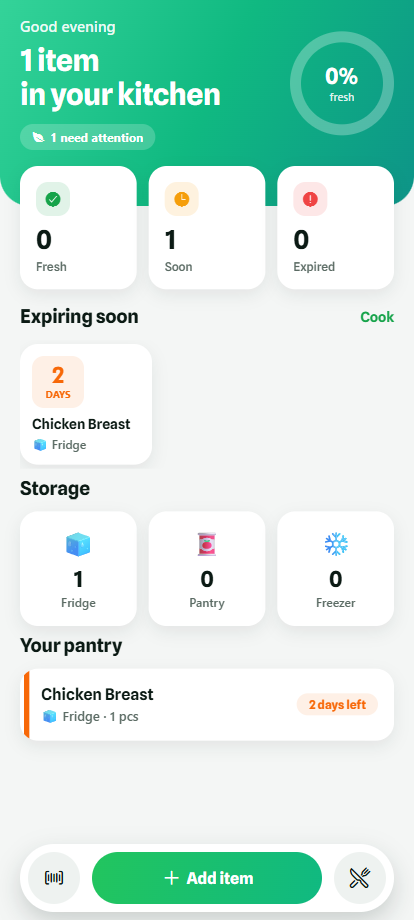
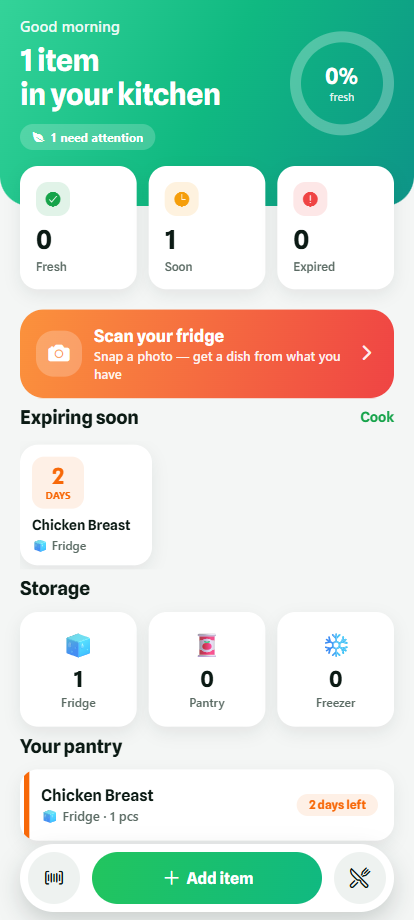
Add "Scan your fridge → recipe" camera feature
- New /fridge screen: live in-app camera with a shutter button; captures a
  photo, sends it to Gemini vision to detect ingredients, then generates a
  recipe from them — with an option to add the detected items to the pantry
- engine/fridgeScan.ts orchestrates detect → recipe (no auto-save)
- Reusable RecipeCard component (shared styling)
- Prominent "Scan your fridge" gradient card on the dashboard
- Update README features + screenshots (dashboard, scan-fridge)

Verified live on web: dashboard card + /fridge screen render, 0 console errors.
tsc clean, web bundle, tests 18/18.

diff --git a/src/app/fridge.tsx b/src/app/fridge.tsx
@@ -1,0 +1,194 @@
+import { useRef, useState } from 'react';
+import { ActivityIndicator, Alert, ScrollView, StyleSheet, Text, View } from 'react-native';
+import { CameraView, useCameraPermissions } from 'expo-camera';
+import { useRouter } from 'expo-router';
+import { Ionicons } from '@expo/vector-icons';
+import Animated, { FadeInDown } from 'react-native-reanimated';
+
+import { GradientButton } from '@/components/ui/gradient-button';
+import { PressScale } from '@/components/ui/press-scale';
+import { RecipeCard } from '@/components/ui/recipe-card';
+import { useColors, font, gradients, radius, shadow, space } from '@/theme/tokens';
+import { scanFridge, saveDetected, type FridgeScanResult } from '@/engine/fridgeScan';
+
+export default function FridgeScreen() {
+  const c = useColors();
+  const router = useRouter();
+  const [permission, requestPermission] = useCameraPermissions();
+  const cameraRef = useRef<CameraView>(null);
+  const [busy, setBusy] = useState(false);
+  const [saved, setSaved] = useState(false);
+  const [result, setResult] = useState<FridgeScanResult | null>(null);
+
+  if (!permission) return <View style={[styles.center, { backgroundColor: c.bg }]} />;
+
+  if (!permission.granted) {
+    return (
+      <View style={[styles.center, { backgroundColor: c.bg }]}>
+        <Ionicons name="camera" size={48} color={c.primary} />
+        <Text style={[styles.permTitle, { color: c.text }]}>Camera access</Text>
+        <Text style={[styles.permText, { color: c.textMuted }]}>
+          FridgeForage uses your camera to see what's in your fridge and suggest a dish.
+        </Text>
+        <GradientButton label="Grant access" colors={gradients.primary} onPress={requestPermission} />
+      </View>
+    );
+  }
+
+  const capture = async () => {
+    if (!cameraRef.current || busy) return;
+    setBusy(true);
+    try {
+      const photo = await cameraRef.current.takePictureAsync({ base64: true, quality: 0.4 });
+      if (!photo?.base64) throw new Error('Could not capture the photo.');
+      const r = await scanFridge(photo.base64);
+      setResult(r);
+      setSaved(false);
+    } catch (e) {
+      Alert.alert('Scan failed', String(e));
+    } finally {
+      setBusy(false);
+    }
+  };
+
+  const addToPantry = async () => {
+    if (!result) return;
+    await saveDetected(result.items);
+    setSaved(true);
+  };
+
+  // ---- Result view ----
+  if (result) {
+    return (
+      <ScrollView style={{ backgroundColor: c.bg }} contentContainerStyle={styles.resultContent} showsVerticalScrollIndicator={false}>
+        {result.status !== 'ok' ? (
+          <Animated.View entering={FadeInDown.springify().damping(15)} style={[styles.notice, { backgroundColor: c.surface }, shadow.card]}>
+            <Ionicons name={result.status === 'no_items' ? 'search' : 'cloud-offline'} size={32} color={c.textMuted} />
+            <Text style={[styles.noticeTitle, { color: c.text }]}>
+              {result.status === 'no_items' ? 'No ingredients spotted' : 'Couldn’t reach the AI'}
+            </Text>
+            <Text style={[styles.noticeText, { color: c.textMuted }]}>
+              {result.status === 'no_items'
+                ? 'Try a clearer, well-lit photo of your open fridge.'
+                : 'The recipe service needs the AI proxy configured. Check your connection and try again.'}
+            </Text>
+          </Animated.View>
+        ) : (
+          <>
+            <Text style={[styles.label, { color: c.textMuted }]}>Spotted in your fridge</Text>
+            <View style={styles.chips}>
+              {result.items.map((it, i) => (
+                <Animated.View
+                  key={it.id}
+                  entering={FadeInDown.delay(i * 40).springify().damping(16)}
+                  style={[styles.chip, { backgroundColor: c.surface }, shadow.card]}>
+                  <Text style={[styles.chipText, { color: c.text }]}>{it.normalized_name}</Text>
+                </Animated.View>
+              ))}
+            </View>
+
+            <PressScale onPress={saved ? undefined : addToPantry} disabled={saved}>
+              <View style={[styles.addRow, { backgroundColor: c.surface, borderColor: c.border }, shadow.card]}>
+                <Ionicons name={saved ? 'checkmark-circle' : 'add-circle-outline'} size={20} color={saved ? c.fresh : c.primary} />
+                <Text style={[styles.addText, { color: saved ? c.fresh : c.text }]}>
+                  {saved ? `Added ${result.items.length} to pantry` : `Add ${result.items.length} to my pantry`}
+                </Text>
+              </View>
+            </PressScale>
+
+            {result.recipe ? (
+              <RecipeCard recipe={result.recipe} />
+            ) : (
+              <View style={[styles.notice, { backgroundColor: c.surface }, shadow.card]}>
+                <Text style={[styles.noticeText, { color: c.textMuted }]}>
+                  Detected the ingredients, but couldn’t fetch a recipe (the AI proxy may be offline).
+                </Text>
+              </View>
+            )}
+          </>
+        )}
+
+        <View style={styles.resultActions}>
+          <GradientButton
+            label="Scan again"
+            colors={gradients.cook}
+            onPress={() => setResult(null)}
+            icon={<Ionicons name="camera-reverse" size={20} color="#fff" />}
+          />
+          <PressScale onPress={() => router.back()} style={styles.doneBtn}>
+            <Text style={[styles.doneText, { color: c.textMuted }]}>Done</Text>
+          </PressScale>
+        </View>
+      </ScrollView>
+    );
+  }
+
+  // ---- Camera view ----
+  return (
+    <View style={styles.cameraContainer}>
+      <CameraView ref={cameraRef} style={StyleSheet.absoluteFill} facing="back" />
+      <View style={styles.overlay} pointerEvents="none">
+        <View style={styles.frame} />
+        <View style={styles.hintPill}>
+          <Ionicons name="sparkles" size={14} color="#fff" />
+          <Text style={styles.hint}>Point at your open fridge</Text>
+        </View>
+      </View>
+      <View style={styles.captureBar}>
+        {busy ? (
+          <View style={styles.busyPill}>
+            <ActivityIndicator color="#fff" />
+            <Text style={styles.busyText}>Looking at your fridge…</Text>
+          </View>
+        ) : (
+          <PressScale onPress={capture} style={styles.shutterWrap}>
+            <View style={styles.shutterOuter}>
+              <View style={styles.shutterInner} />
+            </View>
+          </PressScale>
+        )}
+      </View>
+    </View>
+  );
+}
+
+const styles = StyleSheet.create({
+  center: { flex: 1, alignItems: 'center', justifyContent: 'center', padding: space.xxl, gap: space.lg },
+  permTitle: { fontSize: 22, fontFamily: font.bold, textAlign: 'center' },
+  permText: { fontSize: 15, fontWeight: '500', textAlign: 'center', marginBottom: space.sm },
+
+  cameraContainer: { flex: 1, backgroundColor: '#000' },
+  overlay: { position: 'absolute', top: 0, left: 0, right: 0, bottom: 120, alignItems: 'center', justifyContent: 'center', gap: space.lg },
+  frame: { width: '78%', height: '52%', borderWidth: 3, borderColor: 'rgba(255,255,255,0.85)', borderRadius: radius.lg },
+  hintPill: {
+    flexDirection: 'row', alignItems: 'center', gap: space.sm,
+    backgroundColor: 'rgba(0,0,0,0.55)', paddingHorizontal: space.lg, paddingVertical: space.sm, borderRadius: radius.pill,
+  },
+  hint: { color: '#fff', fontFamily: font.semibold, fontSize: 14 },
+  captureBar: { position: 'absolute', left: 0, right: 0, bottom: 0, height: 120, alignItems: 'center', justifyContent: 'center' },
+  shutterWrap: {},
+  shutterOuter: { width: 74, height: 74, borderRadius: 37, borderWidth: 4, borderColor: '#fff', alignItems: 'center', justifyContent: 'center' },
+  shutterInner: { width: 58, height: 58, borderRadius: 29, backgroundColor: '#fff' },
+  busyPill: {
+    flexDirection: 'row', alignItems: 'center', gap: space.sm,
+    backgroundColor: 'rgba(0,0,0,0.7)', paddingHorizontal: space.xl, paddingVertical: space.md, borderRadius: radius.pill,
+  },
+  busyText: { color: '#fff', fontFamily: font.semibold, fontSize: 14 },
+
+  resultContent: { padding: space.xl, gap: space.lg },
+  label: { fontSize: 13, fontFamily: font.bold, textTransform: 'uppercase', letterSpacing: 0.4 },
+  chips: { flexDirection: 'row', flexWrap: 'wrap', gap: space.sm },
+  chip: { paddingHorizontal: space.lg, paddingVertical: space.sm, borderRadius: radius.pill },
+  chipText: { fontSize: 13, fontFamily: font.semibold },
+  addRow: {
+    flexDirection: 'row', alignItems: 'center', justifyContent: 'center', gap: space.sm,
+    paddingVertical: space.lg, borderRadius: radius.md, borderWidth: 1,
+  },
+  addText: { fontSize: 15, fontFamily: font.semibold },
+  notice: { alignItems: 'center', gap: space.sm, padding: space.xl, borderRadius: radius.md },
+  noticeTitle: { fontSize: 17, fontFamily: font.bold },
+  noticeText: { fontSize: 14, fontWeight: '500', textAlign: 'center' },
+  resultActions: { gap: space.md, marginTop: space.sm },
+  doneBtn: { alignItems: 'center', paddingVertical: space.sm },
+  doneText: { fontSize: 14, fontFamily: font.semibold },
+});

diff --git a/src/components/ui/recipe-card.tsx b/src/components/ui/recipe-card.tsx
@@ -1,0 +1,73 @@
+import { StyleSheet, Text, View } from 'react-native';
+import { LinearGradient } from 'expo-linear-gradient';
+import { Ionicons } from '@expo/vector-icons';
+import Animated, { FadeInDown } from 'react-native-reanimated';
+
+import { useColors, font, gradients, radius, shadow, space } from '@/theme/tokens';
+import type { RecipeResult } from '@/engine/llm';
+
+export function RecipeCard({ recipe }: { recipe: RecipeResult }) {
+  const c = useColors();
+  return (
+    <Animated.View
+      entering={FadeInDown.springify().damping(16)}
+      style={[styles.card, { backgroundColor: c.surface }, shadow.card]}>
+      <LinearGradient colors={gradients.cook} start={{ x: 0, y: 0 }} end={{ x: 1, y: 1 }} style={styles.header}>
+        <Text style={styles.title}>{recipe.title}</Text>
+        <View style={styles.metaRow}>
+          <View style={styles.metaPill}>
+            <Ionicons name="time-outline" size={13} color="#fff" />
+            <Text style={styles.metaText}>{recipe.prep_time_minutes + recipe.cook_time_minutes} min</Text>
+          </View>
+          <View style={styles.metaPill}>
+            <Ionicons name="speedometer-outline" size={13} color="#fff" />
+            <Text style={styles.metaText}>{recipe.difficulty_rating}</Text>
+          </View>
+        </View>
+      </LinearGradient>
+
+      <View style={styles.body}>
+        <Text style={[styles.section, { color: c.textMuted }]}>USES</Text>
+        <Text style={[styles.bodyText, { color: c.text }]}>{recipe.expiring_items_utilized.join(' · ')}</Text>
+
+        {recipe.common_pantry_staples_required.length > 0 && (
+          <>
+            <Text style={[styles.section, { color: c.textMuted }]}>YOU'LL ALSO NEED</Text>
+            <Text style={[styles.bodyText, { color: c.textMuted }]}>
+              {recipe.common_pantry_staples_required.join(' · ')}
+            </Text>
+          </>
+        )}
+
+        <Text style={[styles.section, { color: c.textMuted }]}>STEPS</Text>
+        {recipe.mobile_ui_steps.map((s, i) => (
+          <View key={i} style={styles.step}>
+            <View style={[styles.stepNum, { backgroundColor: c.primary }]}>
+              <Text style={styles.stepNumText}>{i + 1}</Text>
+            </View>
+            <Text style={[styles.stepText, { color: c.text }]}>{s}</Text>
+          </View>
+        ))}
+      </View>
+    </Animated.View>
+  );
+}
+
+const styles = StyleSheet.create({
+  card: { borderRadius: radius.lg, overflow: 'hidden' },
+  header: { padding: space.xl, gap: space.md },
+  title: { color: '#fff', fontSize: 22, fontFamily: font.bold, letterSpacing: -0.3 },
+  metaRow: { flexDirection: 'row', gap: space.sm },
+  metaPill: {
+    flexDirection: 'row', alignItems: 'center', gap: 4,
+    backgroundColor: 'rgba(255,255,255,0.22)', paddingHorizontal: space.md, paddingVertical: 5, borderRadius: radius.pill,
+  },
+  metaText: { color: '#fff', fontSize: 12, fontFamily: font.semibold },
+  body: { padding: space.xl, gap: space.sm },
+  section: { fontSize: 12, fontFamily: font.bold, letterSpacing: 0.6, marginTop: space.sm },
+  bodyText: { fontSize: 15, fontWeight: '600', lineHeight: 22 },
+  step: { flexDirection: 'row', gap: space.md, alignItems: 'flex-start', marginTop: space.xs },
+  stepNum: { width: 26, height: 26, borderRadius: 13, alignItems: 'center', justifyContent: 'center' },
+  stepNumText: { color: '#fff', fontSize: 13, fontFamily: font.bold },
+  stepText: { flex: 1, fontSize: 15, fontWeight: '500', lineHeight: 22, paddingTop: 2 },
+});

diff --git a/src/engine/fridgeScan.ts b/src/engine/fridgeScan.ts
@@ -1,0 +1,41 @@
+/**
+ * "Scan your fridge → get a dish" flow.
+ *
+ * Takes a photo of the fridge interior, asks the AI vision model to identify the
+ * food items in it (reusing INVENTORY_INTAKE), then generates a recipe from the
+ * detected ingredients. Detection does NOT auto-save — the user decides whether
+ * to add the items to their pantry afterwards.
+ */
+import { aiInventoryIntake, aiGenerateRecipe, type RecipeResult } from './llm';
+import { toInventoryItems } from './validation';
+import { insertItems, type InventoryItem } from './db';
+import { scheduleExpiryNotifications } from './notifications';
+
+export type FridgeScanStatus = 'ok' | 'no_items' | 'error';
+
+export interface FridgeScanResult {
+  items: InventoryItem[]; // detected ingredients (validated, not yet saved)
+  recipe: RecipeResult | null;
+  status: FridgeScanStatus;
+}
+
+export async function scanFridge(imageBase64: string): Promise<FridgeScanResult> {
+  try {
+    const ai = await aiInventoryIntake({ imageBase64 });
+    const items = toInventoryItems(ai.items);
+    if (items.length === 0) return { items: [], recipe: null, status: 'no_items' };
+
+    const names = items.map((i) => i.normalized_name);
+    const recipe = await aiGenerateRecipe(names);
+    return { items, recipe, status: 'ok' };
+  } catch {
+    return { items: [], recipe: null, status: 'error' };
+  }
+}
+
+/** Persist the detected ingredients to the pantry on demand. */
+export async function saveDetected(items: InventoryItem[]): Promise<void> {
+  if (!items.length) return;
+  await insertItems(items);
+  await scheduleExpiryNotifications();
+}

diff --git a/src/app/index.tsx b/src/app/index.tsx
@@ -96,6 +96,20 @@ export default function Dashboard() {
             <StatCard index={2} label="Expired" value={stats.expired} color={palette.red} icon="alert-circle" />
           </View>
 
+          {/* ---- Scan fridge → recipe (marquee feature) ---- */}
+          <PressScale onPress={() => router.push('/fridge')} style={styles.scanFridge}>
+            <LinearGradient colors={gradients.cook} start={{ x: 0, y: 0 }} end={{ x: 1, y: 1 }} style={styles.scanFridgeInner}>
+              <View style={styles.scanFridgeIcon}>
+                <Ionicons name="camera" size={24} color="#fff" />
+              </View>
+              <View style={{ flex: 1 }}>
+                <Text style={styles.scanFridgeTitle}>Scan your fridge</Text>
+                <Text style={styles.scanFridgeSub}>Snap a photo — get a dish from what you have</Text>
+              </View>
+              <Ionicons name="chevron-forward" size={22} color="rgba(255,255,255,0.9)" />
+            </LinearGradient>
+          </PressScale>
+
           {/* ---- Expiring soon ---- */}
           <SectionHeader title="Expiring soon" actionLabel={stats.expiringSoon.length ? 'Cook' : undefined} onAction={() => router.push('/recipe')} />
           {stats.expiringSoon.length === 0 ? (
@@ -196,6 +210,12 @@ const styles = StyleSheet.create({
 
   body: { paddingHorizontal: space.xl, marginTop: -space.xxxl },
   statRow: { flexDirection: 'row', gap: space.md, marginBottom: space.sm },
+
+  scanFridge: { marginTop: space.md },
+  scanFridgeInner: { flexDirection: 'row', alignItems: 'center', gap: space.md, padding: space.lg, borderRadius: radius.lg },
+  scanFridgeIcon: { width: 46, height: 46, borderRadius: radius.md, backgroundColor: 'rgba(255,255,255,0.22)', alignItems: 'center', justifyContent: 'center' },
+  scanFridgeTitle: { color: '#fff', fontSize: 17, fontFamily: font.bold },
+  scanFridgeSub: { color: 'rgba(255,255,255,0.9)', fontSize: 13, fontWeight: '500', marginTop: 1 },
 
   carousel: { gap: space.md, paddingVertical: space.xs, paddingRight: space.lg },
   celebrate: { flexDirection: 'row', alignItems: 'center', gap: space.md, padding: space.lg, borderRadius: radius.md },

diff --git a/src/app/_layout.tsx b/src/app/_layout.tsx
@@ -87,6 +87,7 @@ export default function RootLayout() {
             <Stack.Screen name="add" options={{ title: 'Add item', presentation: 'modal' }} />
             <Stack.Screen name="edit" options={{ title: 'Edit item', presentation: 'modal' }} />
             <Stack.Screen name="scan" options={{ title: 'Scan barcode', presentation: 'modal' }} />
+            <Stack.Screen name="fridge" options={{ title: 'Scan your fridge', presentation: 'modal' }} />
             <Stack.Screen name="recipe" options={{ title: 'Cook something' }} />
           </Stack>
         </ThemeProvider>

diff --git a/README.md b/README.md
@@ -47,6 +47,9 @@ caught a real regex bug letting "Strawberries" skip the berry shelf-life cap.
 
 ## Features
 
+- 📸 **Scan your fridge → instant recipe** — point the in-app camera at your open
+  fridge; Gemini vision identifies the ingredients and suggests a dish you can
+  make right now (and optionally adds them to your pantry).
 - 📷 **Barcode scanning** → product name via Open Food Facts, shelf life via the
   local database (no AI call needed).
 - 🧾 **Receipt photo** → Gemini vision extracts and normalizes the line items.
@@ -104,6 +107,7 @@ Engine, UI, and build pipeline complete and verified (typecheck ✅, Android
 bundle ✅, tests 18/18 ✅).
 
 **Recent additions:**
+- ✅ Scan-your-fridge flow — live in-app camera → AI ingredient detection → recipe
 - ✅ Web build — run the whole app in a browser via `react-native-web` (localStorage + no-op shims)
 - ✅ Edit-item screen (tap any item to edit name, quantity, unit, zone, shelf life)
 - ✅ Search and filter on inventory (text search + zone chips)